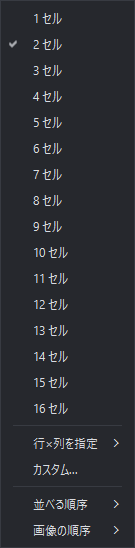
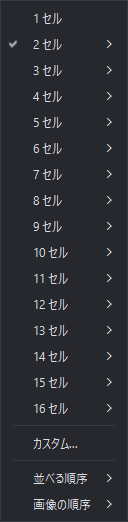
feat: セル数のメニューから行と列を選べるようにする
よく使う格子は直接適用し、同じ項目のサブメニューで行数と列数を選べるようにする。マウスとキーボードの挙動をテストし、日本語マニュアルを更新する。

diff --git a/resources/i18n/heiran_ja.ts b/resources/i18n/heiran_ja.ts
@@ -1508,11 +1508,6 @@ Click to follow the other cells again.</source>
         <translation>%1 セル</translation>
     </message>
     <message>
-        <location filename="../../src/ui/MainWindow.cpp" line="341"/>
-        <source>Grid Dimensions</source>
-        <translation>行×列を指定</translation>
-    </message>
-    <message>
         <location filename="../../src/ui/MainWindow.cpp" line="351"/>
         <location filename="../../src/ui/MainWindow.cpp" line="400"/>
         <source>Custom...</source>

diff --git a/tests/MainWindowTests.cpp b/tests/MainWindowTests.cpp
@@ -1348,36 +1348,120 @@ private Q_SLOTS:
             << "ms";
   }
 
-  void offersDirectCellCountsAndSeparateGridChoices() {
+  void offersDirectCellCountsWithGridSubmenus() {
     heiran::ui::MainWindow window;
     auto *layoutMenu = findMenu(window.menuBar(), "&Layout");
     QVERIFY(layoutMenu != nullptr);
 
     QStringList countTitles;
+    QMap<QString, QStringList> gridsByTitle;
     for (const auto *action : layoutMenu->actions()) {
-      if (action->text().contains("Cell")) {
-        QVERIFY(!action->menu() && action->isCheckable());
-        countTitles.push_back(action->text());
+      if (!action->text().contains("Cell"))
+        continue;
+      QVERIFY(action->isCheckable());
+      countTitles.push_back(action->text());
+      if (action->text() == "1 Cell") {
+        QVERIFY(!action->menu());
+        continue;
       }
+      QVERIFY(action->menu());
+      for (const auto *grid : action->menu()->actions())
+        gridsByTitle[action->text()].push_back(grid->text());
     }
     QCOMPARE(countTitles.size(), 16);
     QCOMPARE(countTitles.first(), QString("1 Cell"));
     QCOMPARE(countTitles.at(1), QString("2 Cells"));
     QCOMPARE(countTitles.last(), QString("16 Cells"));
-    auto *gridMenu = layoutMenu->findChild<QMenu *>("gridDimensionsMenu");
-    QVERIFY(gridMenu);
-    QMap<QString, QStringList> gridsByTitle;
-    for (const auto *action : gridMenu->actions()) {
-      QVERIFY(action->menu());
-      for (const auto *grid : action->menu()->actions())
-        gridsByTitle[action->text()].push_back(grid->text());
-    }
     QCOMPARE(gridsByTitle.size(), 15);
     QVERIFY(!gridsByTitle.contains("1 Cell"));
     QCOMPARE(gridsByTitle.value("7 Cells"), QStringList({"1x7", "7x1"}));
     QCOMPARE(gridsByTitle.value("12 Cells"),
              QStringList({"1x12", "2x6", "3x4", "4x3", "6x2", "12x1"}));
     QCOMPARE(gridsByTitle.value("16 Cells"), QStringList({"1x16", "2x8", "4x4", "8x2", "16x1"}));
+  }
+
+  void usesMouseAndKeyboardToApplyLayoutsOrOpenGridChoices() {
+    const auto organization = QCoreApplication::organizationName();
+    QCoreApplication::setOrganizationName("HeiranLayoutMenuTests");
+    const auto restore = qScopeGuard([organization]() {
+      QSettings().clear();
+      QCoreApplication::setOrganizationName(organization);
+    });
+    QSettings().clear();
+
+    heiran::ui::MainWindow window;
+    auto *menu = findMenu(window.menuBar(), "&Layout");
+    QVERIFY(menu);
+    auto *sixCells = menu->actions().at(5);
+    QCOMPARE(sixCells->text(), QString("6 Cells"));
+    auto *choices = sixCells->menu();
+    QVERIFY(choices);
+    auto *grid = window.findChild<heiran::ui::ViewerGridWidget *>();
+    const auto currentSize = [grid]() {
+      const auto layout = grid->sessionSnapshot().viewer.layout;
+      return QSize(layout.cols, layout.rows);
+    };
+    const auto initialSize = currentSize();
+    const auto popupPosition = window.mapToGlobal(QPoint(50, 50));
+
+    menu->popup(popupPosition);
+    const QRect row = menu->actionGeometry(sixCells);
+    const QPoint label = row.center();
+    const QPoint arrow(row.right() - 5, label.y());
+    QTest::mouseClick(menu, Qt::LeftButton, Qt::NoModifier, arrow);
+    QTRY_VERIFY(choices->isVisible());
+    QCOMPARE(currentSize(), initialSize);
+    QTest::keyClick(choices, Qt::Key_Left);
+    QTRY_VERIFY(!choices->isVisible());
+    QVERIFY(menu->isVisible());
+
+    menu->setActiveAction(menu->actions().first());
+    for (int step = 0; step < 5; ++step)
+      QTest::keyClick(menu, Qt::Key_Down);
+    QCOMPARE(menu->activeAction(), sixCells);
+    QTest::keyClick(menu, Qt::Key_Right);
+    QTRY_VERIFY(choices->isVisible());
+    QCOMPARE(currentSize(), initialSize);
+    const auto *gridChoice = choices->actions().at(2);
+    QCOMPARE(gridChoice->text(), QString("3x2"));
+    QTest::keyClick(choices, Qt::Key_Down);
+    QTest::keyClick(choices, Qt::Key_Down);
+    QCOMPARE(choices->activeAction(), gridChoice);
+    QTest::keyClick(choices, Qt::Key_Return);
+    QTRY_VERIFY(!menu->isVisible());
+    QCOMPARE(currentSize(), QSize(2, 3));
+
+    menu->popup(popupPosition);
+    menu->setActiveAction(menu->actions().first());
+    QTest::keyClick(menu, Qt::Key_Return);
+    QCOMPARE(currentSize(), QSize(1, 1));
+    menu->popup(popupPosition);
+    QTest::keyClick(menu, Qt::Key_Down);
+    for (int step = 0; step < 5; ++step)
+      QTest::keyClick(menu, Qt::Key_Down);
+    QCOMPARE(menu->activeAction(), sixCells);
+    QTest::keyClick(menu, Qt::Key_Enter);
+    QTRY_VERIFY(!menu->isVisible());
+    QCOMPARE(currentSize(), QSize(2, 3));
+
+    menu->actions().first()->trigger();
+    menu->popup(popupPosition);
+    QTest::mouseClick(menu, Qt::LeftButton, Qt::NoModifier, label);
+    QTRY_VERIFY(!menu->isVisible());
+    QVERIFY(!choices->isVisible());
+    QCOMPARE(currentSize(), QSize(2, 3));
+
+    menu->actions().first()->trigger();
+    menu->popup(popupPosition);
+    QTest::mouseMove(menu->windowHandle(), label - QPoint(1, 0));
+    QTest::mouseMove(menu->windowHandle(), label);
+    QTRY_VERIFY(choices->isVisible());
+    QCOMPARE(currentSize(), QSize(1, 1));
+    const auto labelFromSubmenu = choices->mapFromGlobal(menu->mapToGlobal(label));
+    QTest::mouseClick(choices, Qt::LeftButton, Qt::NoModifier, labelFromSubmenu);
+    QTRY_VERIFY(!menu->isVisible());
+    QVERIFY(!choices->isVisible());
+    QCOMPARE(currentSize(), QSize(2, 3));
   }
 
   void remembersGridDimensionsIndependentlyForEachCellCount() {
@@ -1395,7 +1479,7 @@ private Q_SLOTS:
                                   int cols) {
       const auto actions = window.findChildren<QAction *>();
       const auto action = std::ranges::find_if(
-          actions, [&text](const auto *entry) { return entry->text() == text && !entry->menu(); });
+          actions, [&text](const auto *entry) { return entry->text() == text; });
       QVERIFY(action != actions.end());
       (*action)->trigger();
       const auto layout =

diff --git a/src/ui/MainWindow.cpp b/src/ui/MainWindow.cpp
@@ -20,6 +20,7 @@
 #include "heiran/ui/ImageListPanelController.hpp"
 #include "heiran/ui/ImagePrinter.hpp"
 #include "heiran/ui/ImageSetManagerDialog.hpp"
+#include "heiran/ui/LayoutMenu.hpp"
 #include "heiran/ui/LoupeWidget.hpp"
 #include "heiran/ui/ManualLocator.hpp"
 #include "heiran/ui/PageListing.hpp"
@@ -302,10 +303,12 @@ void MainWindow::createImagesMenu() {
 
 // Layout メニュー。
 void MainWindow::createLayoutMenu() {
-  auto *layoutMenu = menuBar()->addMenu(QCoreApplication::translate("MainWindow", "&Layout"));
   layoutActionGroup_ = new QActionGroup(this);
   layoutActionGroup_->setExclusive(true);
   layoutCountActionGroup_ = new QActionGroup(this);
+  auto *layoutMenu = new LayoutMenu(QCoreApplication::translate("MainWindow", "&Layout"),
+                                    layoutCountActionGroup_, menuBar());
+  menuBar()->addMenu(layoutMenu);
 
   const auto chooseGrid = [this](int rows, int cols) {
     SessionLayoutController::rememberLayout(rows, cols);
@@ -326,7 +329,18 @@ void MainWindow::createLayoutMenu() {
                       : QCoreApplication::translate("MainWindow", "%1 Cells").arg(count);
   };
   for (int cellCount = 1; cellCount <= SessionLayoutController::kMaxCellCount; ++cellCount) {
-    auto *action = layoutMenu->addAction(countLabel(cellCount));
+    const auto label = countLabel(cellCount);
+    QAction *action = nullptr;
+    if (cellCount == 1) {
+      action = layoutMenu->addAction(label);
+    } else {
+      auto *countMenu = layoutMenu->addMenu(label);
+      action = countMenu->menuAction();
+      for (const auto &layout : SessionLayoutController::layoutsForCellCount(cellCount)) {
+        addLayoutAction(countMenu, QString("%1x%2").arg(layout.rows).arg(layout.cols), layout.rows,
+                        layout.cols);
+      }
+    }
     action->setCheckable(true);
     action->setData(cellCount);
     layoutCountActionGroup_->addAction(action);
@@ -337,16 +351,6 @@ void MainWindow::createLayoutMenu() {
   }
 
   layoutMenu->addSeparator();
-  auto *gridMenu =
-      layoutMenu->addMenu(QCoreApplication::translate("MainWindow", "Grid Dimensions"));
-  gridMenu->setObjectName("gridDimensionsMenu");
-  for (int cellCount = 2; cellCount <= SessionLayoutController::kMaxCellCount; ++cellCount) {
-    auto *countMenu = gridMenu->addMenu(countLabel(cellCount));
-    for (const auto &layout : SessionLayoutController::layoutsForCellCount(cellCount)) {
-      addLayoutAction(countMenu, QString("%1x%2").arg(layout.rows).arg(layout.cols), layout.rows,
-                      layout.cols);
-    }
-  }
   auto *customLayoutAction =
       layoutMenu->addAction(QCoreApplication::translate("MainWindow", "Custom..."));
   connect(customLayoutAction, &QAction::triggered, this, [this, chooseGrid]() {

diff --git a/src/ui/LayoutMenu.cpp b/src/ui/LayoutMenu.cpp
@@ -1,0 +1,66 @@
+#include "heiran/ui/LayoutMenu.hpp"
+
+#include <QAction>
+#include <QKeyEvent>
+#include <QMouseEvent>
+#include <QStyle>
+
+namespace heiran::ui {
+
+LayoutMenu::LayoutMenu(const QString &title, QActionGroup *cellCounts, QWidget *parent)
+    : QMenu(title, parent), cellCounts_(cellCounts) {}
+
+void LayoutMenu::mousePressEvent(QMouseEvent *event) {
+  const auto position = event->position().toPoint();
+  auto *action = actionAt(position);
+  pressedCellCount_.clear();
+  if (event->button() == Qt::LeftButton && hasCellCountSubmenu(action)) {
+    pressedCellCount_ = action;
+    pressedArrow_ = isOverSubmenuArrow(action, position);
+    setActiveAction(action);
+  }
+  QMenu::mousePressEvent(event);
+}
+
+void LayoutMenu::mouseReleaseEvent(QMouseEvent *event) {
+  const auto position = event->position().toPoint();
+  auto *action = actionAt(position);
+  const bool pressedThisCount = event->button() == Qt::LeftButton && action == pressedCellCount_ &&
+                                hasCellCountSubmenu(action);
+  pressedCellCount_.clear();
+  if (pressedThisCount && !pressedArrow_ && !isOverSubmenuArrow(action, position)) {
+    hide();
+    action->trigger();
+    return;
+  }
+
+  QMenu::mouseReleaseEvent(event);
+  if (pressedThisCount && pressedArrow_ && isOverSubmenuArrow(action, position) && isVisible()) {
+    setActiveAction(action);
+  }
+}
+
+void LayoutMenu::keyPressEvent(QKeyEvent *event) {
+  auto *action = activeAction();
+  if ((event->key() == Qt::Key_Return || event->key() == Qt::Key_Enter) &&
+      hasCellCountSubmenu(action)) {
+    event->accept();
+    hide();
+    action->trigger();
+    return;
+  }
+  QMenu::keyPressEvent(event);
+}
+
+bool LayoutMenu::hasCellCountSubmenu(const QAction *action) const {
+  return action && action->isEnabled() && action->actionGroup() == cellCounts_ && action->menu();
+}
+
+bool LayoutMenu::isOverSubmenuArrow(QAction *action, const QPoint &position) const {
+  const QRect row = actionGeometry(action);
+  const int width = row.height();
+  const QRect arrowArea(row.right() - width + 1, row.top(), width, row.height());
+  return QStyle::visualRect(layoutDirection(), row, arrowArea).contains(position);
+}
+
+}  // namespace heiran::ui

diff --git a/include/heiran/ui/LayoutMenu.hpp b/include/heiran/ui/LayoutMenu.hpp
@@ -1,0 +1,28 @@
+#pragma once
+
+#include <QMenu>
+#include <QPointer>
+
+class QActionGroup;
+
+namespace heiran::ui {
+
+class LayoutMenu : public QMenu {
+public:
+  LayoutMenu(const QString &title, QActionGroup *cellCounts, QWidget *parent);
+
+protected:
+  void mousePressEvent(QMouseEvent *event) override;
+  void mouseReleaseEvent(QMouseEvent *event) override;
+  void keyPressEvent(QKeyEvent *event) override;
+
+private:
+  bool hasCellCountSubmenu(const QAction *action) const;
+  bool isOverSubmenuArrow(QAction *action, const QPoint &position) const;
+
+  const QActionGroup *cellCounts_;
+  QPointer<QAction> pressedCellCount_;
+  bool pressedArrow_ = false;
+};
+
+}  // namespace heiran::ui

diff --git a/manual/side-by-side.md b/manual/side-by-side.md
@@ -68,16 +68,19 @@
 
 ### 格子の形を変える
 
-**レイアウト** (Layout) メニューで **1 セル** (1 Cell) ～ **16 セル** (16 Cells) を選ぶと、すぐにそのセル数へ切り替わります。
-配置を変えるには **行×列を指定** (Grid Dimensions) からセル数と格子を選びます。たとえば 6 セルでは `1x6`、`2x3`、`3x2`、`6x1` を選べます。
-選んだ格子はセル数ごとに保存されます。次にセル数を選んだときは前回の格子を使います。初めて選ぶときは正方形に最も近い格子を使い、縦横を入れ替えられる場合は横長を選びます。
+**レイアウト** (Layout) メニューで **1 セル** (1 Cell) ～ **16 セル** (16 Cells) の文字部分をクリックすると、そのセル数で最後に選んだ格子を適用します。
+行と列の数を選ぶには、セル数の項目にマウスを重ねるか、右端の矢印をクリックします。たとえば 6 セルでは `1x6`、`2x3`、`3x2`、`6x1` を選べます。**1 セル**は `1x1` のみです。
+
+キーボードでは、**↑／↓** でセル数に移動し、**Enter** で前回の格子を適用します。**→** でサブメニューを開き、**↑／↓** と **Enter** で行×列を選べます。**←** または **Esc** で親メニューに戻ります。
+
+選んだ格子はセル数ごとに保存されます。初めて選ぶときは正方形に最も近い格子を使い、縦横を入れ替えられる場合は横長を選びます。
 **カスタム...** (Custom...) で、行と列の数を直接指定することもできます (行 x 列が 16 まで)。
 
 ```{figure} _static/images/menu-layout.png
 :alt: レイアウト (Layout) メニュー
 :width: 200px
 
-レイアウト (Layout) メニュー。現在のセル数にチェックが付き、セル数をクリックすると切り替わります。
+レイアウト (Layout) メニュー。現在のセル数にチェックが付き、2 セル以上の項目の矢印から行×列を選べます。
 ```
 
 - **レイアウト > 並べる順序** (Layout > Fill Order): 画像を並べる順を、**行を先に** (Row First) (横へ) と **列を先に** (Column First) (縦へ) から選びます。

diff --git a/docs/設計判断.md b/docs/設計判断.md
@@ -514,10 +514,10 @@ MSVC 14.51 / Qt 6.11.1 の手元の環境で測ったもの。
 
 ### セル数から格子を選ぶ
 
-- **決定**: 「レイアウト」のセル数はその場で適用する。「行×列を指定」と「カスタム」で選んだ格子をセル数ごとに保存する。
+- **決定**: 「レイアウト」でセル数のラベルをクリックするか Enter を押すと、保存済みの格子を適用する。マウスを重ねる、末尾の矢印をクリックする、または右矢印キーを押すと、そのセル数の行×列サブメニューが開く。サブメニューと「カスタム」で選んだ格子をセル数ごとに保存する。
   未設定なら正方形に近い格子を選び、同程度なら列の多い格子を選ぶ。1 セルの格子は 1×1 だけなので行列の小メニューを置かない。
-- **理由**: よく使う格子に一操作で戻せるようにする。画像を開いたときや比較などで作られた格子を、手動で選んだ設定に上書きしない。
-- **見直す条件**: 同じセル数で複数の格子を頻繁に切り替える操作が必要になったとき。
+- **理由**: よく使う格子に一操作で戻せるようにし、同じ項目からそのセル数の候補を選べるようにする。画像を開いたときや比較などで作られた格子を、手動で選んだ設定に上書きしない。
+- **見直す条件**: セル数の直接適用と行×列の選択を区別しづらい場合や、よく使う複数の格子に別々のショートカットが必要になったとき。
 
 ### ページ送りの循環
 

diff --git a/docs/テスト観点.md b/docs/テスト観点.md
@@ -25,7 +25,7 @@
   指定サイズの非同期読み込み、上下限、再起動時の復元を `heiran_image_list_panel_tests` で確認する。
 - 全体ズームは `heiran_main_window_tests` で % 入力、セル固有倍率の維持、キー・ホイール等からの値の追従、入力途中の保持、画像なし・不正値を確認する。
 - ナビゲーションは同テストで長いパスの選択欄の縮小、元の文字列のツールチップ、2 行と 1 行の切り替え、設定オフとナビゲーション非表示時のページ操作を確認する。
-- レイアウトは同テストでセル数の直接適用、1 セルの小メニュー省略、不正な保存済み格子からの復帰、セル数ごとに保存した格子の復元を確認する。
+- レイアウトは同テストでラベルクリックと Enter による直接適用、マウスオーバー・末尾の矢印クリック・右矢印キーによる行×列の選択、1 セルのサブメニュー省略、不正な保存済み格子からの復帰、セル数ごとに保存した格子の復元を確認する。
 - ページ送りの循環は `heiran_image_list_panel_tests` で既定オフ、キー操作、絞り込み内の循環、比較中の停止と終了後の復帰、設定の復元を確認する。Alt＋ホイールは `heiran_viewer_grid_widget_tests` で複数ノッチを含めて確認する。
 - 配色は `heiran_app_settings_tests` でスレート・サンド・さくらの保存と読み戻し、設定を閉じる前のプレビュー、キャンセル時の復元を確認する。
 
